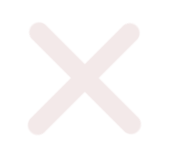
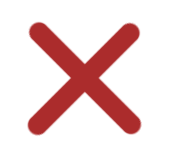
responsive

Changed region(s): [[0.1479, 0.1258, 0.858, 0.8553]]

diff --git a/styles.css b/styles.css
@@ -774,18 +774,20 @@ svg{
 
 #hamburger{
   position: absolute;
-  left: 3px;
+  left: 30px;
   top: 3px;
-  background-color: red;
+  /* background-color: red; */
 }
 
 
 #navButtons2{
   width: 100%;
-  background-color: red;
+  background-color: #F5F2EF;
   height: 500px;
   position: absolute;
-  top: -500px;
+  top: -600px;
+  y: 0;
+  box-shadow: 5px 10px 50px #888888;
 
 }
 
@@ -870,6 +872,19 @@ svg{
   height: 65px;
   background-repeat: no-repeat;
 }
+
+
+
+@media only screen and (min-width: 900px) {
+
+  #hamburger{
+  display: none;
+    background-color: red;
+  }
+
+
+}
+
 
 
 @media only screen and (max-width: 1370px) {

diff --git a/index.html b/index.html
@@ -274,6 +274,16 @@ safety and how to deal with it as a community. </p>
 
 <script type="text/javascript">
 
+document.getElementById('hamburger').addEventListener('click', function MoveNav(){
+  TweenMax.to('#navButtons2', 0.5,  {y: 600} );
+  this.style.cursor = 'default';
+});
+
+document.getElementById('CrossB2').addEventListener('click', function MoveNav(){
+  TweenMax.to('#navButtons2', 0.5,  {y: 0} );
+  this.style.cursor = 'default';
+});
+
 
 
 var a = document.getElementById("paper1");
